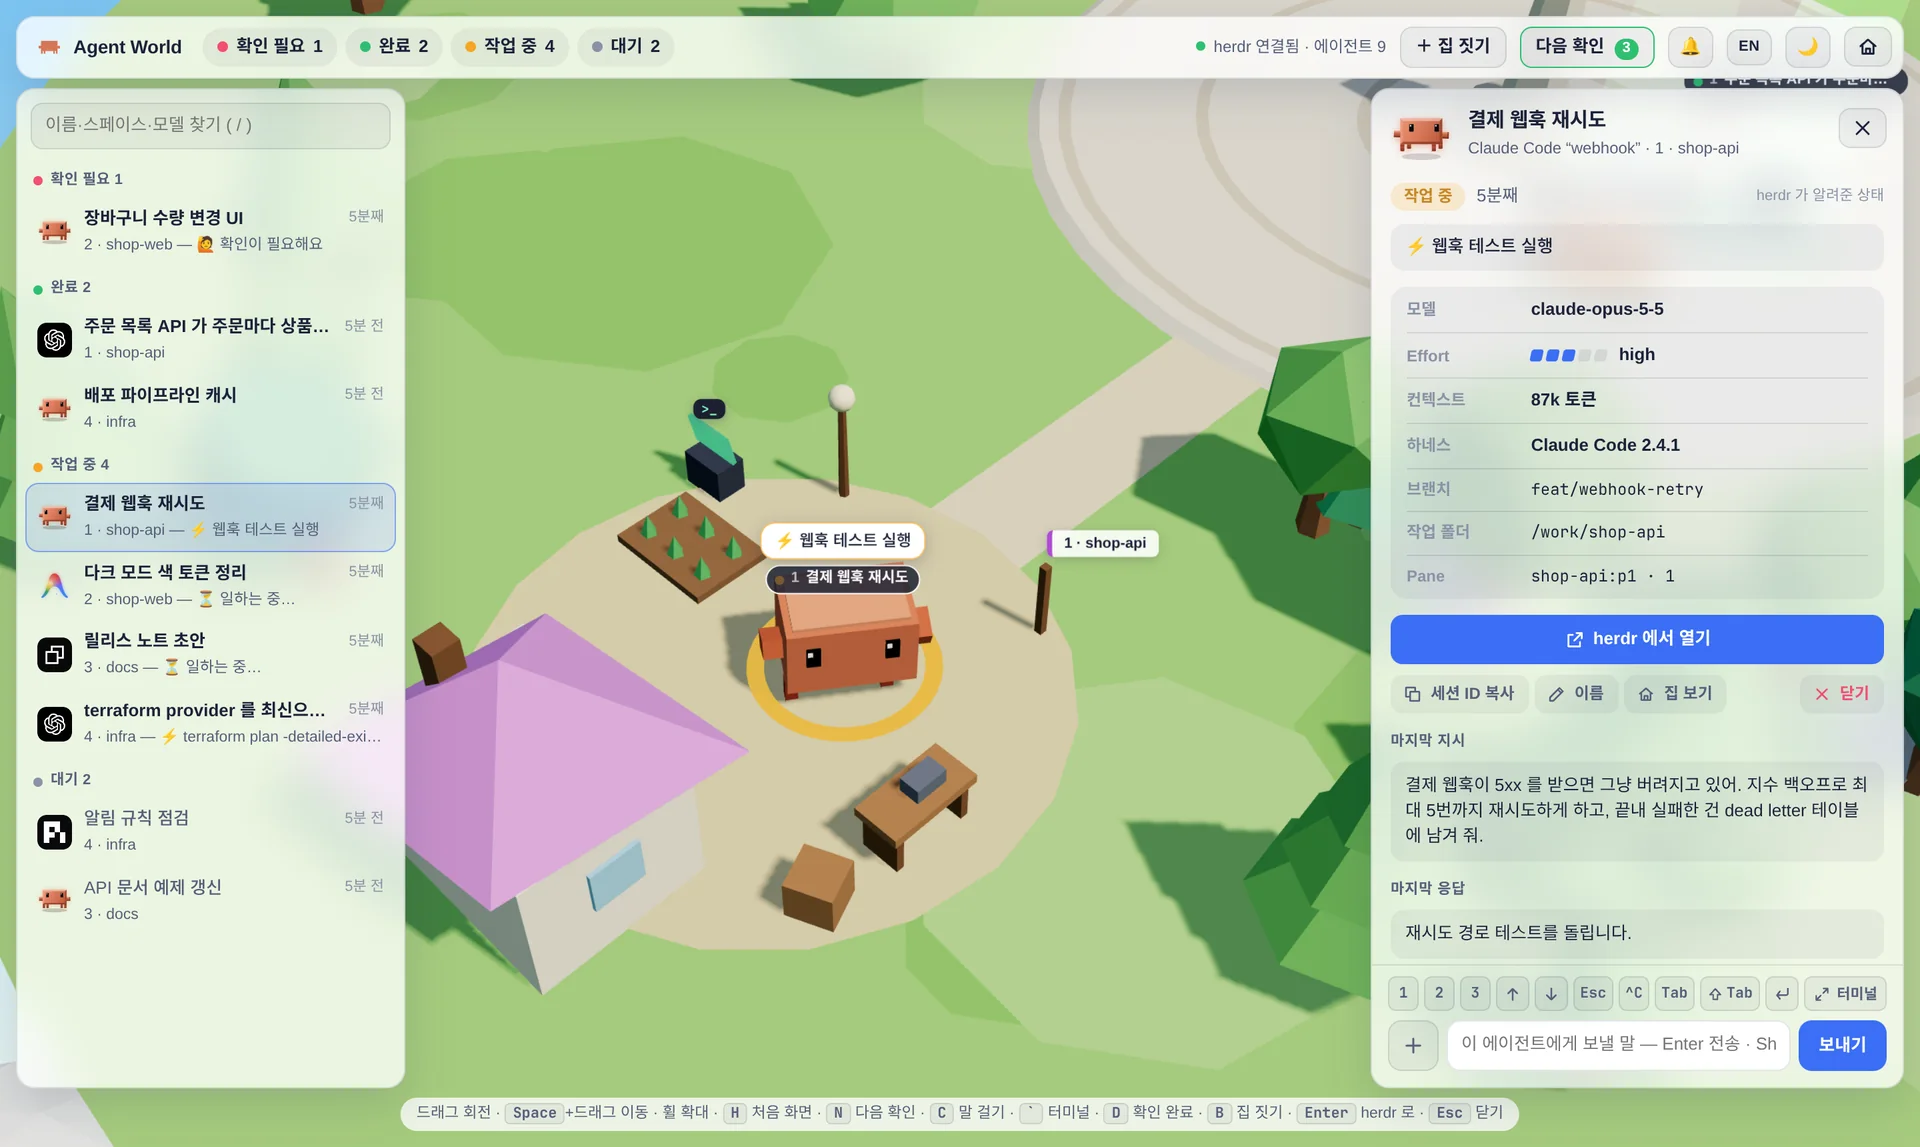
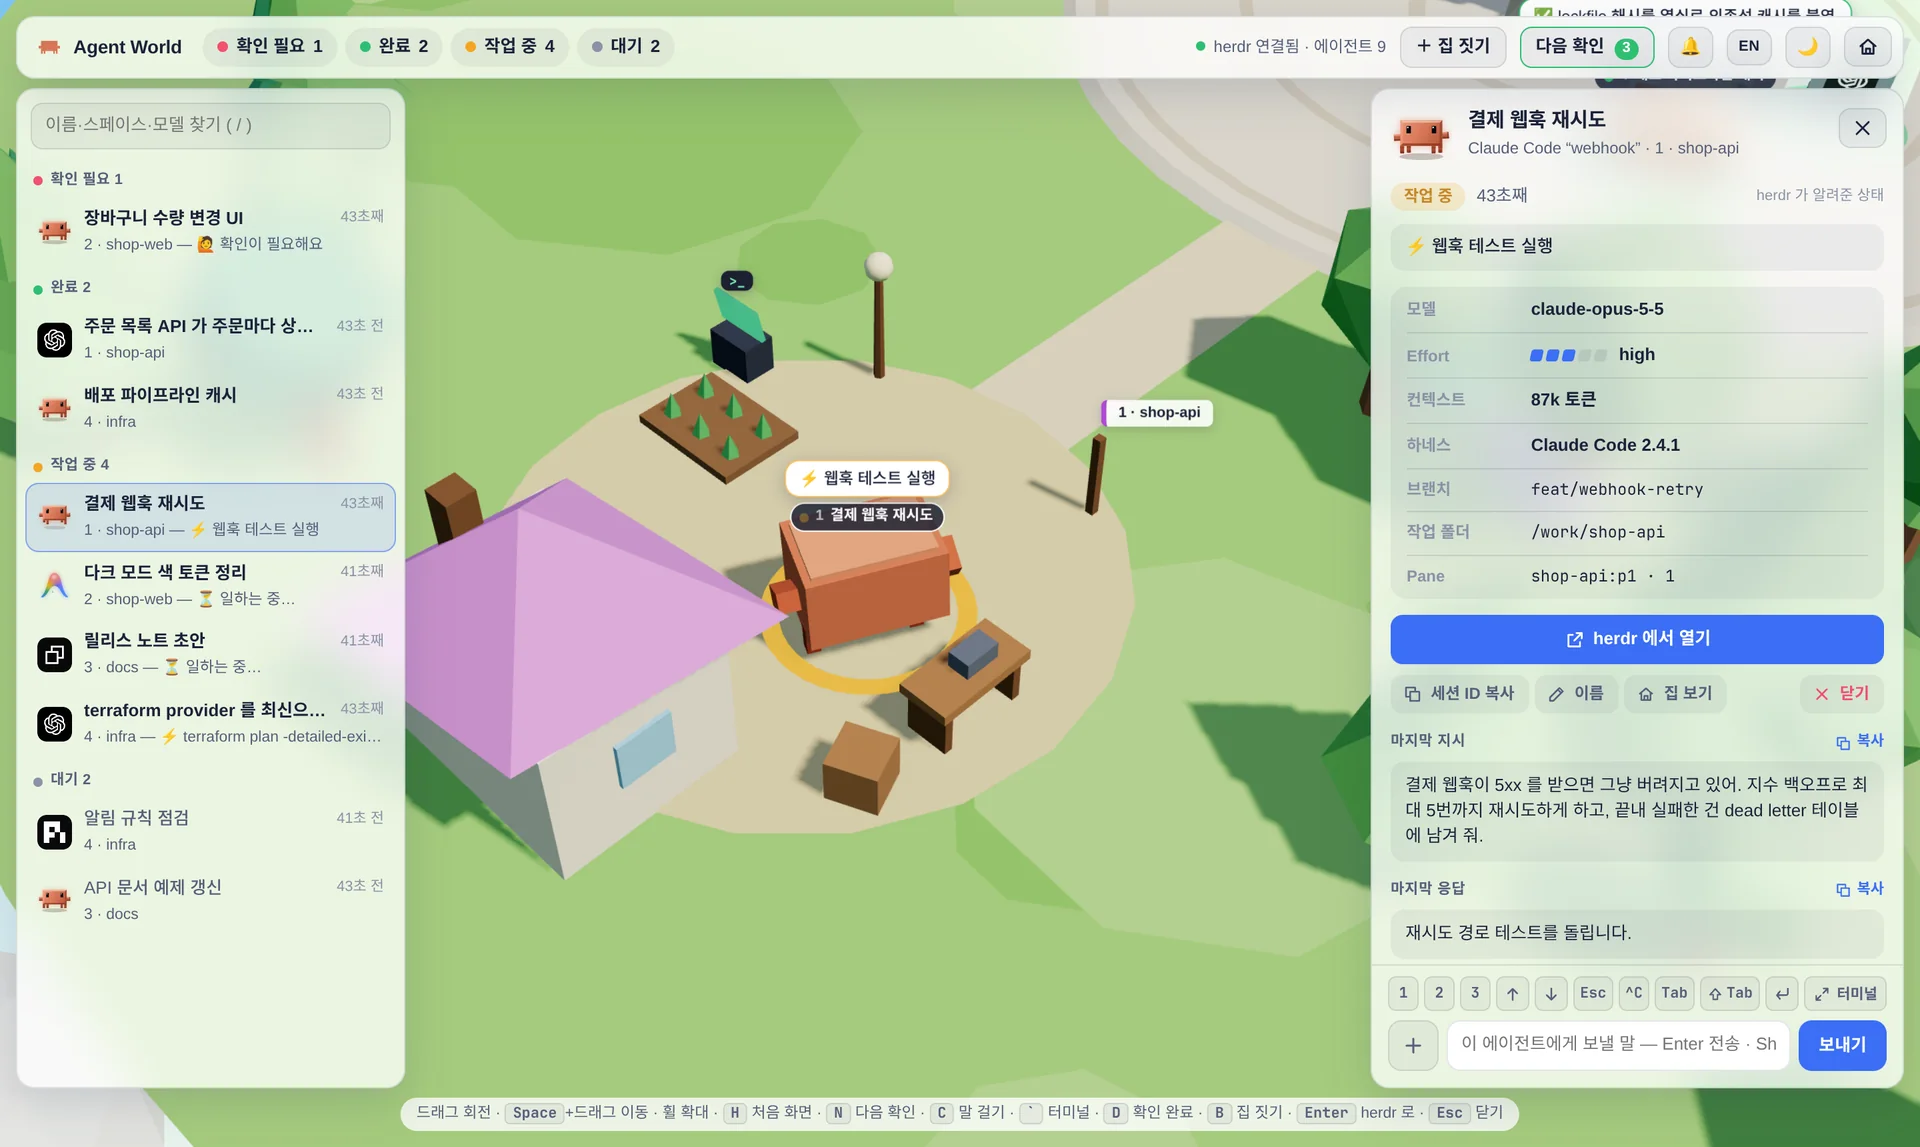
README·홈페이지: 알림·복사 버튼·질문 카드 감지를 반영하고 그림 두 장을 다시 찍는다
휴대폰 그림에는 종 단추가, 상태 창 그림에는 복사 버튼이 빠져 있었다. 같은 가상 시나리오로 다시 찍었다.
홈페이지는 알림을 휴대폰 장의 한 문단으로 떼어 적는다. README 의 알아 둘 것에는 desk-look·desk-plan 카드가
확인 필요로 올라오는 것과, 같은 호스트 443 의 다른 PWA 가 알림을 가져갈 수 있다는 것(Android Chrome 에서 겪음)을 더한다.

diff --git a/docs/index.html b/docs/index.html
@@ -451,7 +451,7 @@ html.js .reveal.in { opacity: 1; transform: none; }
       <ul class="points">
         <li><span class="n">C</span><div>
           <h3><span lang="ko">지시 보내기</span><span lang="en">Send a prompt</span></h3>
-          <p><span lang="ko">캐릭터를 눌러 상태 창을 열고 아래 입력창에 씁니다. 에이전트의 로그에 내 지시가 찍힌 것을 확인한 뒤에 전달됐다고 알려 줍니다.</span><span lang="en">Click a character and type in the input at the bottom of its status window. Delivery is confirmed from the user turn that appears in the agent's log.</span></p>
+          <p><span lang="ko">캐릭터를 눌러 상태 창을 열고 아래 입력창에 씁니다. 에이전트의 로그에 내 지시가 찍힌 것을 확인한 뒤에 전달됐다고 알려 줍니다. 마지막 응답은 복사 버튼으로 원문을 가져갑니다.</span><span lang="en">Click a character and type in the input at the bottom of its status window. Delivery is confirmed from the user turn that appears in the agent's log. A copy button takes the last reply as written.</span></p>
         </div></li>
         <li><span class="n">1</span><div>
           <h3><span lang="ko">질문과 권한 요청에 답하기</span><span lang="en">Answer questions and permission requests</span></h3>
@@ -524,8 +524,11 @@ html.js .reveal.in { opacity: 1; transform: none; }
       <p class="kicker">Phone</p>
       <h2><span lang="ko">휴대폰으로 이어 가기</span><span lang="en">Step away and carry on from your phone</span></h2>
       <div class="head" style="margin:0"><p>
-        <span lang="ko">좁은 화면에서는 목록이 서랍으로 바뀌고 상태 창과 터미널이 화면 전체를 씁니다. 화면 자판에 없는 Esc·Tab·화살표·Ctrl+C 는 버튼 줄로 나옵니다. 홈 화면에 앱으로 설치하면 주소창 없이 뜨고, 🔔 을 켜 두면 앱을 내려 둔 동안에도 완료와 확인 필요를 알림으로 받습니다.</span>
-        <span lang="en">On a narrow screen the list becomes a drawer and the status window and terminal take the whole screen. Keys the on-screen keyboard lacks (Esc, Tab, arrows, Ctrl+C) appear as a row of buttons. Install it to the home screen and it opens without the address bar; turn on the 🔔 and it notifies you when an agent finishes or needs input, even with the app in the background.</span>
+        <span lang="ko">좁은 화면에서는 목록이 서랍으로 바뀌고 상태 창과 터미널이 화면 전체를 씁니다. 화면 자판에 없는 Esc·Tab·화살표·Ctrl+C 는 버튼 줄로 나옵니다. 홈 화면에 앱으로 설치하면 주소창 없이 뜹니다.</span>
+        <span lang="en">On a narrow screen the list becomes a drawer and the status window and terminal take the whole screen. Keys the on-screen keyboard lacks (Esc, Tab, arrows, Ctrl+C) appear as a row of buttons. Install it to the home screen and it opens without the address bar.</span>
+      </p><p>
+        <span lang="ko">🔔 을 켜 두면 에이전트가 끝났거나 확인을 기다릴 때 알림이 옵니다. 화면을 닫았거나 앱을 내려 둔 동안에도 옵니다. 기본은 꺼져 있고 기기마다 따로 켭니다. 알림의 글은 그 브라우저만 풀 수 있게 잠가서 보냅니다.</span>
+        <span lang="en">Turn on the 🔔 and you are notified when an agent finishes or needs input, even with the page closed or the app in the background. It is off by default and switched on per device, and the text is encrypted so that only your browser can read it.</span>
       </p><p>
         <span lang="ko">다른 기기에서는 <code>tailscale serve</code> 로 tailnet 안에서만 엽니다. 공인 인터넷에는 내보내지 않습니다.</span>
         <span lang="en">Other devices reach it through <code>tailscale serve</code>, inside your tailnet only. It is never exposed to the public internet.</span>

diff --git a/README.en.md b/README.en.md
@@ -16,7 +16,7 @@ talk to them and build new workspaces without going back to the herdr window. On
 | Idle | Dozes beside the house (dimmed). |
 
 Click a character to open its status window: model, effort, context, last prompt and reply, activity log and the
-terminal screen. The camera moves in on that character, and closing the window (✕ or Esc) returns to where you were.
+terminal screen. `Copy` next to the last prompt and the last reply takes the original text (Markdown as written). The camera moves in on that character, and closing the window (✕ or Esc) returns to where you were.
 `Open in herdr` (Enter) switches herdr to that pane and, on Hyprland, brings the terminal window to the front.
 
 <img src="docs/img/detail.webp" alt="The status window of a working character: model, effort, context, branch, last prompt and reply, with the quick-key row and input below" width="960">
@@ -60,6 +60,7 @@ with a new version, open pages reload themselves (they wait while you are typing
 
 Turn on the `🔔` at the top to be **notified** when an agent finishes or needs input — also while the page is closed or
 the app is in the background (Web Push). It is off by default, switched on per device, and one more tap turns it off.
+Notifications for the same agent replace each other, and in Chromium browsers you only get the page's toast while you are looking at it.
 On iOS it is available only in the installed home-screen app (16.4 or later). The text is encrypted so that only your
 browser can read it; the push service in between (Google, Apple, Mozilla) cannot. While nobody has the page open the
 server looks at the agents only every 15 seconds, so a notification can be that late.
@@ -77,6 +78,12 @@ Worth knowing:
 - **Attached images become files on this machine.** They are written to `~/.cache/agent-world/images/` and the path
   is typed into the pane. Claude Code turns the path into `[Image #N]`; other harnesses get the path in the prompt
   text. Files older than seven days are removed.
+- **Question cards count as needs input.** While a desk-look or desk-plan question or plan card waits for an answer,
+  herdr still reports the agent as working; Agent World reads the marker file the card leaves and shows it as needs
+  input (desk-look 0.81.5 or later).
+- **Another PWA on the same host's default port can take the notifications.** Seen on Android Chrome: with another
+  app installed from the same tailnet address on port 443, notifications appeared under that app's name. Moving that
+  app to another port, removing it from the phone and turning the `🔔` on again fixed it.
 - Left to the herdr TUI: pane layout, size and movement, copy mode, mouse, plugins, remote machines, session management.
 
 <img src="docs/img/night.webp" alt="The world in the night theme: a dark blue island with name tags and speech bubbles" width="960">
